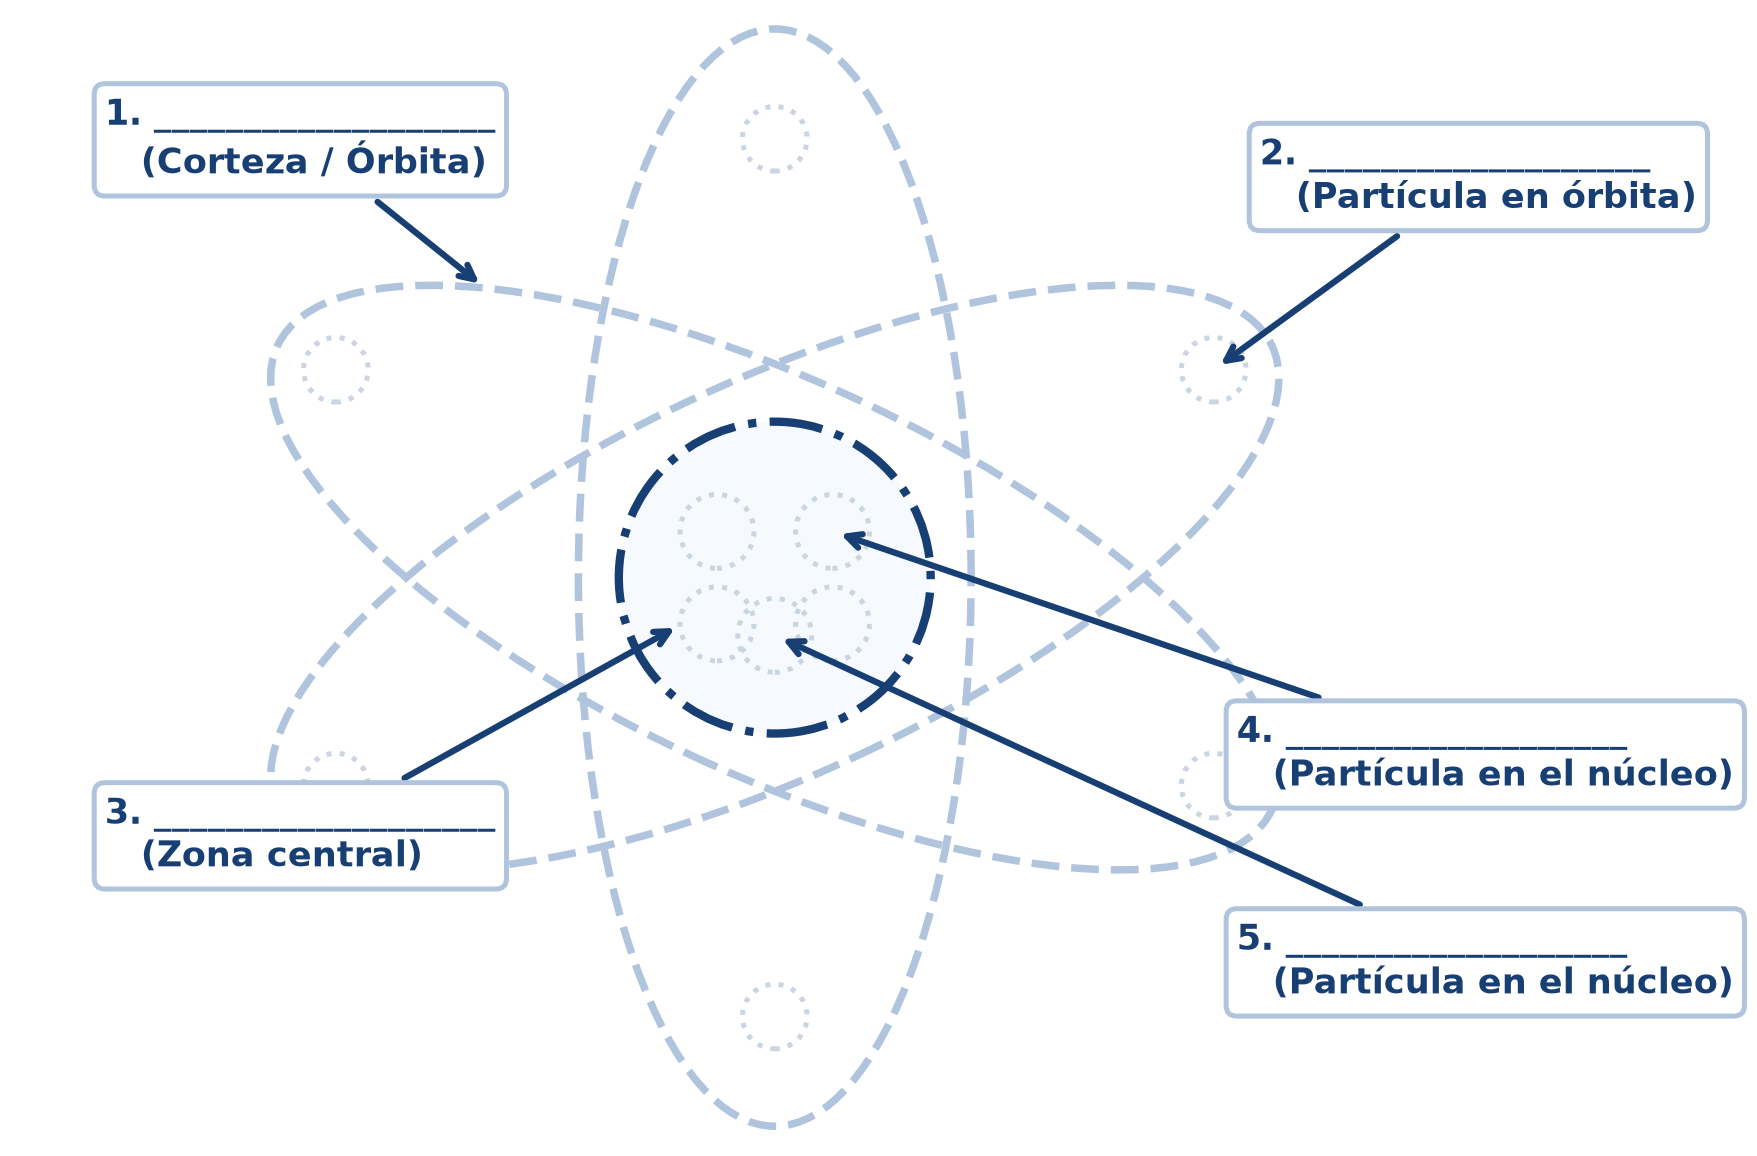
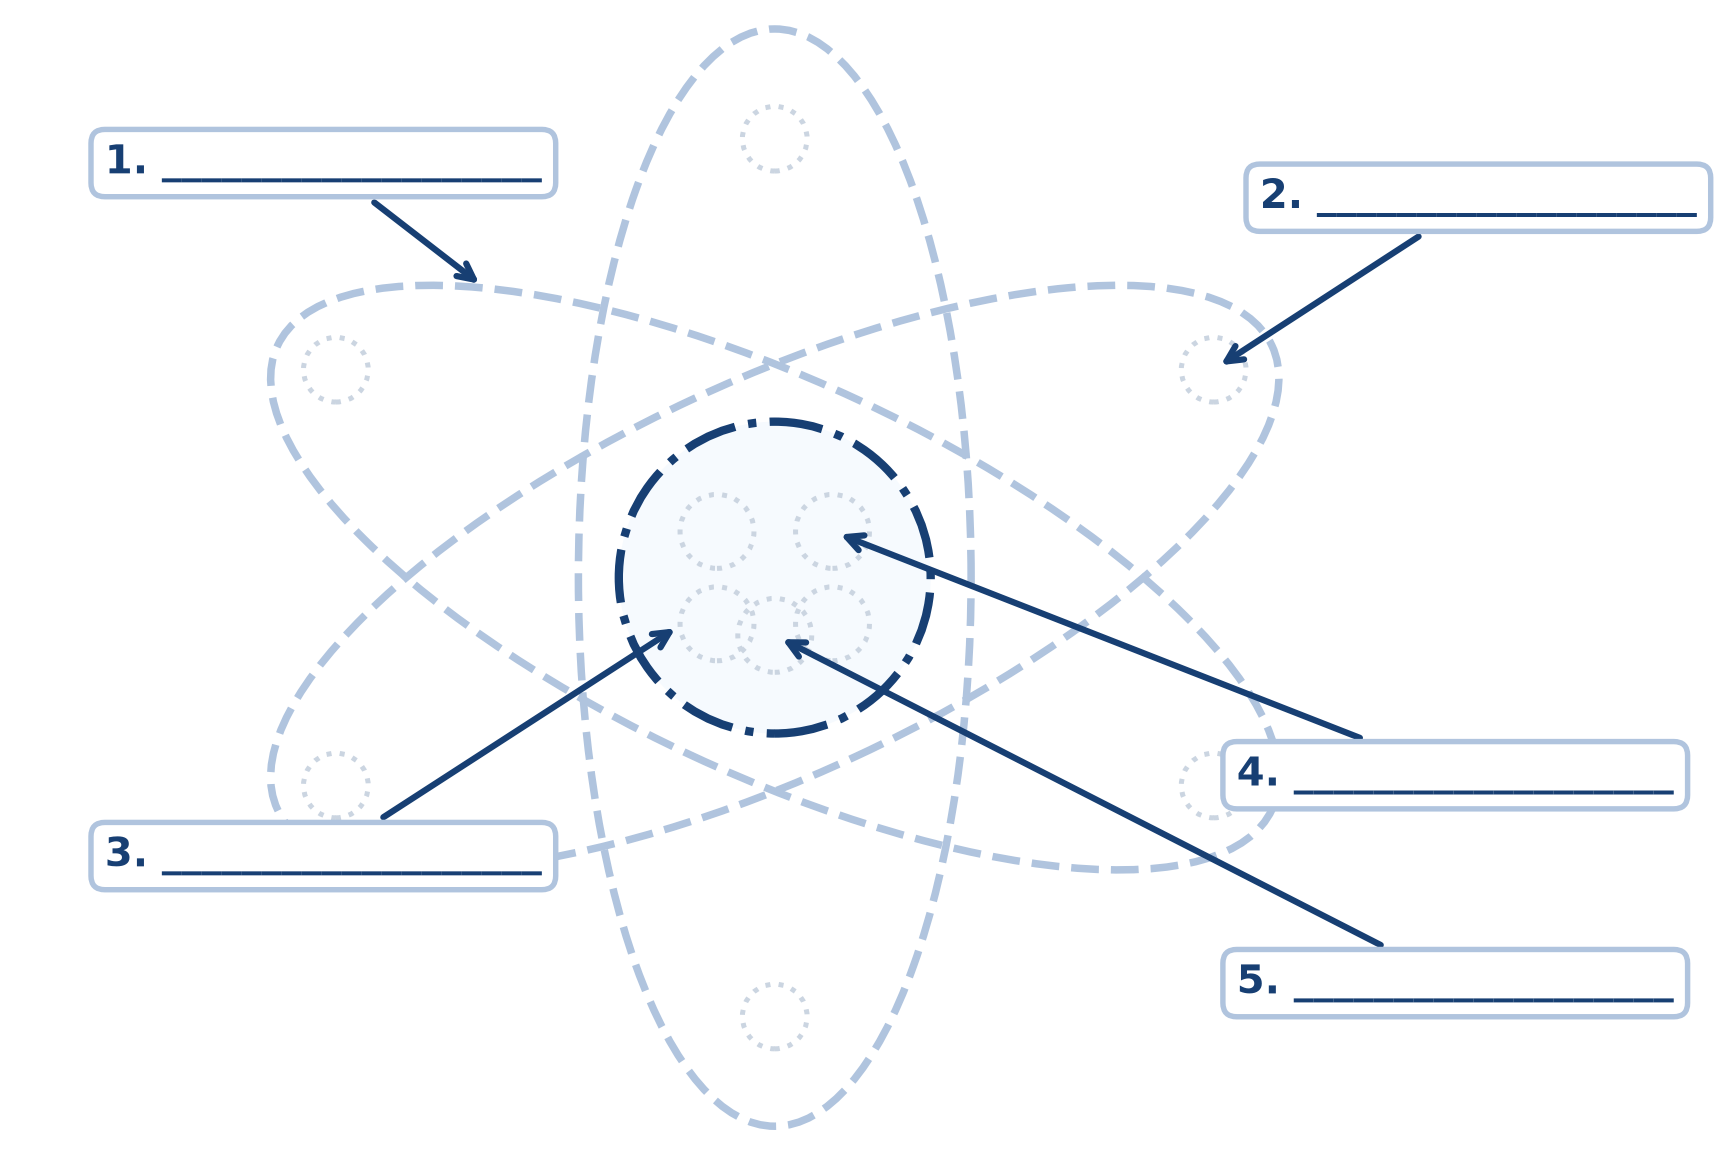
fix(assessment): remover respuestas y pistas del diagrama del atomo para el estudiante

diff --git a/generate_atom_assets.py b/generate_atom_assets.py
@@ -53,40 +53,41 @@ def generate_student_atom_skeleton():
                               edgecolor='#CBD5E1', linestyle=':', linewidth=1.2)
         ax.add_patch(el_c)
 
-    # Líneas y cuadros guía para rotular partes (Callout boxes)
-    # 1. CORTEZA / ÓRBITA (arriba a la izquierda)
-    ax.annotate("1. ___________________\n   (Corteza / Órbita)",
+    # Líneas y cuadros guía para rotular partes (Callout boxes en blanco para que el estudiante responda)
+    # 1. Zona exterior / corteza
+    ax.annotate("1. ___________________",
                 xy=(-2.5, 2.5), xytext=(-5.8, 3.5),
                 arrowprops=dict(arrowstyle="->", color="#173F73", lw=1.5),
-                fontsize=8.5, fontweight='bold', color="#173F73",
-                bbox=dict(boxstyle="round,pad=0.3", fc="#FFFFFF", ec="#B0C4DE", lw=1.2))
+                fontsize=9.5, fontweight='bold', color="#173F73",
+                bbox=dict(boxstyle="round,pad=0.35", fc="#FFFFFF", ec="#B0C4DE", lw=1.3))
 
-    # 2. ELECTRÓN (arriba a la derecha)
-    ax.annotate("2. ___________________\n   (Partícula en órbita)",
+    # 2. Partícula en órbita
+    ax.annotate("2. ___________________",
                 xy=(3.8, 1.8), xytext=(4.2, 3.2),
                 arrowprops=dict(arrowstyle="->", color="#173F73", lw=1.5),
-                fontsize=8.5, fontweight='bold', color="#173F73",
-                bbox=dict(boxstyle="round,pad=0.3", fc="#FFFFFF", ec="#B0C4DE", lw=1.2))
+                fontsize=9.5, fontweight='bold', color="#173F73",
+                bbox=dict(boxstyle="round,pad=0.35", fc="#FFFFFF", ec="#B0C4DE", lw=1.3))
 
-    # 3. NÚCLEO (abajo a la izquierda)
-    ax.annotate("3. ___________________\n   (Zona central)",
+    # 3. Región central
+    ax.annotate("3. ___________________",
                 xy=(-0.8, -0.4), xytext=(-5.8, -2.5),
                 arrowprops=dict(arrowstyle="->", color="#173F73", lw=1.5),
-                fontsize=8.5, fontweight='bold', color="#173F73",
-                bbox=dict(boxstyle="round,pad=0.3", fc="#FFFFFF", ec="#B0C4DE", lw=1.2))
+                fontsize=9.5, fontweight='bold', color="#173F73",
+                bbox=dict(boxstyle="round,pad=0.35", fc="#FFFFFF", ec="#B0C4DE", lw=1.3))
 
-    # 4. PROTÓN y NEUTRÓN (abajo a la derecha)
-    ax.annotate("4. ___________________\n   (Partícula en el núcleo)",
+    # 4. Partícula nuclear
+    ax.annotate("4. ___________________",
                 xy=(0.5, 0.4), xytext=(4.0, -1.8),
                 arrowprops=dict(arrowstyle="->", color="#173F73", lw=1.5),
-                fontsize=8.5, fontweight='bold', color="#173F73",
-                bbox=dict(boxstyle="round,pad=0.3", fc="#FFFFFF", ec="#B0C4DE", lw=1.2))
+                fontsize=9.5, fontweight='bold', color="#173F73",
+                bbox=dict(boxstyle="round,pad=0.35", fc="#FFFFFF", ec="#B0C4DE", lw=1.3))
 
-    ax.annotate("5. ___________________\n   (Partícula en el núcleo)",
+    # 5. Otra partícula nuclear
+    ax.annotate("5. ___________________",
                 xy=(0.0, -0.5), xytext=(4.0, -3.6),
                 arrowprops=dict(arrowstyle="->", color="#173F73", lw=1.5),
-                fontsize=8.5, fontweight='bold', color="#173F73",
-                bbox=dict(boxstyle="round,pad=0.3", fc="#FFFFFF", ec="#B0C4DE", lw=1.2))
+                fontsize=9.5, fontweight='bold', color="#173F73",
+                bbox=dict(boxstyle="round,pad=0.35", fc="#FFFFFF", ec="#B0C4DE", lw=1.3))
 
     out_file = os.path.join(out_dir, "atom_skeleton_student.png")
     plt.savefig(out_file, bbox_inches='tight', transparent=False, facecolor='white', pad_inches=0.08)

diff --git a/build_ciencias_8basico.py b/build_ciencias_8basico.py
@@ -305,9 +305,9 @@ def build_evaluacion_estudiante_8b():
     p_i3.paragraph_format.space_before = Pt(1)
     p_i3.paragraph_format.space_after = Pt(4)
     r_i3 = p_i3.add_run(
-        "Observa el siguiente esquema de un átomo. Completa las líneas escribiendo el nombre de las partes "
-        "indicadas por las flechas (Núcleo, Corteza, Protón, Neutrón y Electrón). Luego, dibuja las partículas "
-        "faltantes y pinta según lo visto en clases:"
+        "Observa con atención el esquema del modelo atómico. Completa cada una de las líneas numeradas (1 al 5) "
+        "escribiendo el nombre de las partes de la estructura del átomo y sus partículas subatómicas según "
+        "corresponda. Luego, dibuja las partículas faltantes en las órbitas y el núcleo, y colorea según lo trabajado en clases:"
     )
     r_i3.font.name = "Arial"
     r_i3.font.size = Pt(8.5)
@@ -341,9 +341,7 @@ def build_evaluacion_estudiante_8b():
     rc1.font.size = Pt(8)
     rc1.font.color.rgb = COLOR_NAVY_RGB
     rc2 = p_cr.add_run(
-        "1. Identifica y rotula la Corteza/Órbita. | 2. Identifica y rotula el Electrón (e–). | "
-        "3. Identifica y rotula el Núcleo atómico. | 4. Identifica y rotula el Protón (p+). | "
-        "5. Identifica y rotula el Neutrón (n0) y colorea adecuadamente."
+        "1 punto por cada rotulación correcta del 1 al 5. Identificación clara de las partes del átomo, partículas subatómicas y dibujo/coloreado correspondiente."
     )
     rc2.font.name = "Arial"
     rc2.font.size = Pt(7.5)
